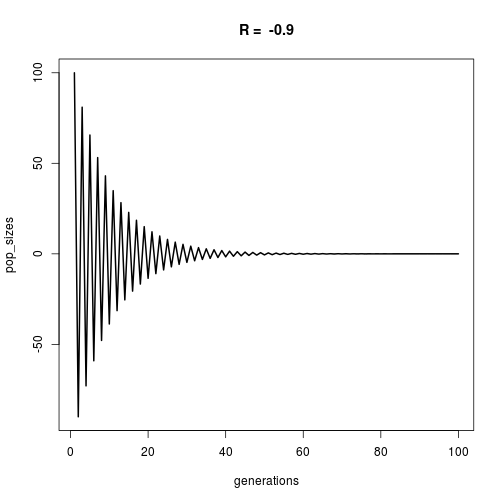
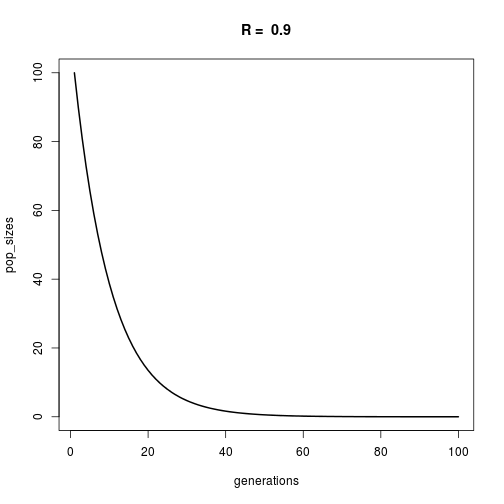
tweaking parameter in discrete expo growth run

diff --git a/lloyd_smith/exercises.md b/lloyd_smith/exercises.md
@@ -13,7 +13,7 @@ Tweaking parameters of discrete growth model
 ```r
 # conditions & parameters (these are new!)
 generations <- 100
-RR <- -0.9 # R is a parameter
+RR <- 0.9 # R is a parameter
 N_init <- 100 # N is a state variable
 
 # create and populate pop size vector
@@ -27,7 +27,7 @@ head(pop_sizes)
 ```
 
 ```
-## [1] 100.000 -90.000  81.000 -72.900  65.610 -59.049
+## [1] 100.000  90.000  81.000  72.900  65.610  59.049
 ```
 
 ```r
